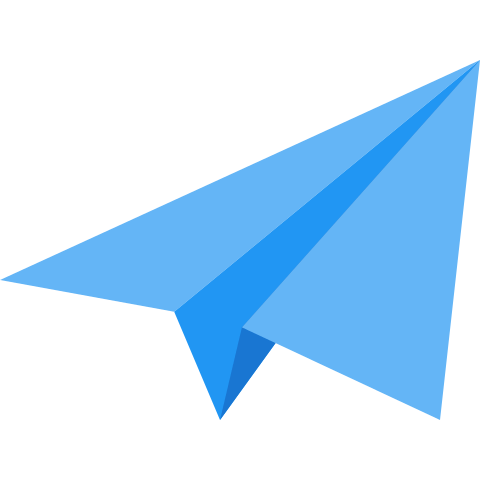
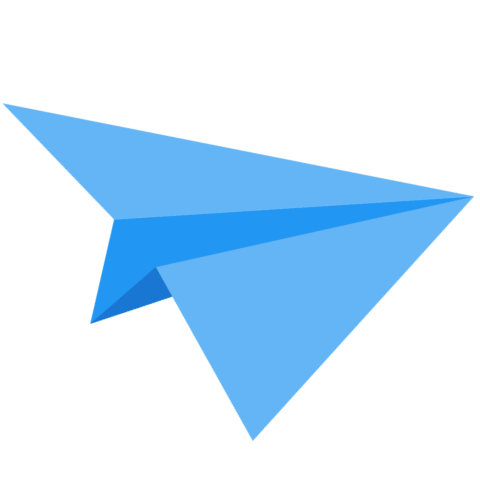
Animate paper plane flight on scroll

diff --git a/app.js b/app.js
@@ -1,0 +1,33 @@
+const flightPath = {
+    curviness: 1.5,
+    autoRotate: true,
+    values: [
+        { x: 100, y: -30 },
+        { x: 300, y: 20 },
+        { x: 500, y: 120 },
+        { x: 700, y: -200 },
+        { x: 300, y: -20 },
+        { x: 600, y: 90 },
+        { x: 900, y: -100 },
+        { x: window.innerWidth, y: -250 },
+    ]
+};
+
+const tween = new TimelineLite();
+
+tween.add(
+    TweenLite.to(".paper-plane", 1, {
+        bezier: flightPath,
+        ease: Power1.easeInOut
+    })
+);
+
+const controller = new ScrollMagic.Controller();
+const scene = new ScrollMagic.Scene({
+    triggerElement: '.animation',
+    triggerHook: 0,
+    duration: 3000
+})
+    .setTween(tween)
+    .setPin('.animation')
+    .addTo(controller);

diff --git a/style.css b/style.css
@@ -28,5 +28,4 @@ h1 {
     top: 50%;
     left: 0;
     height: 100px;
-    transform: rotate(45deg);
 }
